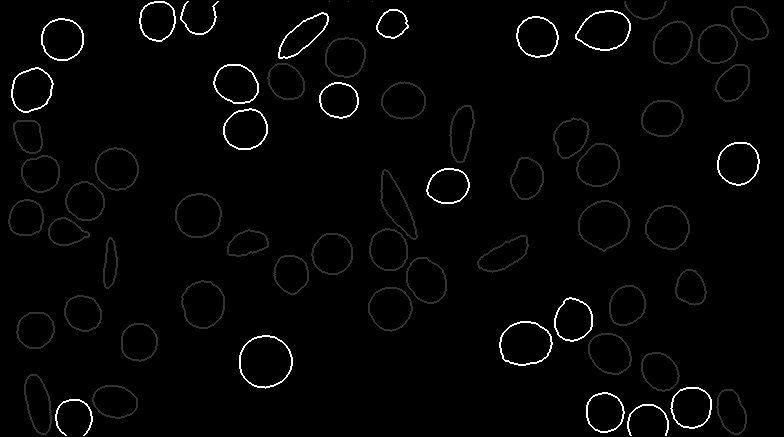
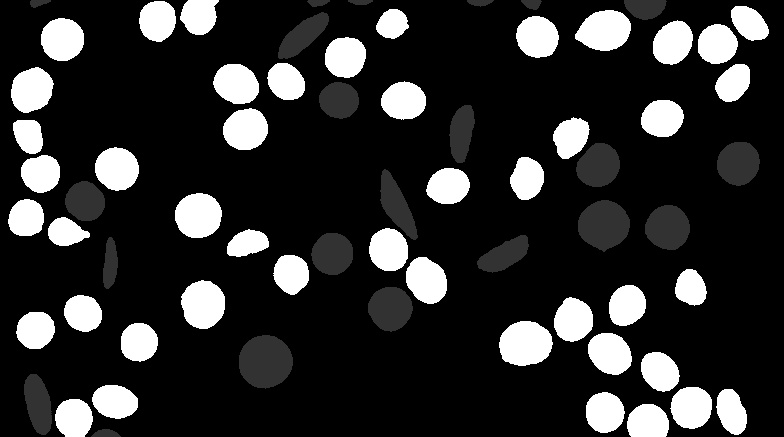
Improve highlightging

diff --git a/ex4/ex4.cpp b/ex4/ex4.cpp
@@ -498,7 +498,7 @@ bool isAHit(unsigned char* image, int structElement[3][3], int index, int width)
     for (int i = 0; i < 3; i++) {
         for (int j = 0; j < 3; j++) {
         
-            if (image[index] == 255 && structElement[i][j] == 1)
+            if (image[index] == 0 && structElement[i][j] == 1)
                 return false;
             index++;
         }
@@ -518,7 +518,7 @@ unsigned char * erode(unsigned char* image, int width, int height, int noTimes) 
         if (isRightMostColumn(i, width, height) || isLeftMostColumn(i, width, height)) 
             continue;
 
-        newImage[i] = isAHit(image, structElement, i, width) ? 0 : 255;  
+        newImage[i] = isAHit(image, structElement, i, width) ? image[i] : 0;  
     }
 
     if (noTimes == 1)
@@ -582,19 +582,17 @@ unsigned char* highlightRoundOnes(unsigned char *image, unsigned char *labels, u
 
     unsigned char *newImage = (unsigned char *)malloc(sizeof(char) * size);
 
-/*
+    double classification[256];
     for (int i = 0; i < 256; i++) 
-        printf("%d   %d\n", labHist[i], subHist[i]);*/
+        classification[i] = labHist[i] == 0 ? 0.0 : pow(subHist[i], 2) / labHist[i];
 
     for (int i = 0; i < size; i++) {
         if (image[i] == 0)
-            continue; 
-
-        double p2A = pow(subHist[labels[i]], 2) / labHist[labels[i]];
+            continue;        
         
-        double roundness = abs(p2A - fourPi);
-printf("roundness: %f %f\n", roundness, p2A);
-        newImage[i] = roundness < 24 ? 255 : 50; 
+        double roundness = abs(classification[image[i]]- fourPi);
+
+        newImage[i] = roundness < 1.9 ? 255 : 50; 
     }
 
     return newImage;
@@ -624,24 +622,19 @@ int main(int argc, char *argv[]) {
 
   labels = CCA(thresholded, width, height);
 
-  eroded = erode(thresholded, width, height, 2);
+  eroded = erode(labels, width, height, 1);
 
-  subtracted = subtract(eroded, thresholded, width * height);
-  inverted = invert(subtracted, width * height);  
+  subtracted = subtract(labels, eroded, width * height);
+  inverted = invert(subtracted, width * height);   
 
+  highlighted = highlightRoundOnes(labels, eroded, subtracted, width * height);
   
-  subtractedLabels = CCA(inverted, width, height);
-
-  highlighted = highlightRoundOnes(subtractedLabels, labels, subtractedLabels, width * height);
-
-
   write_JPEG_file(argv[2], width, height, channels, thresholded, 95);
   write_JPEG_file(argv[3], width, height, channels, labels, 95);
   write_JPEG_file(argv[4], width, height, channels, eroded, 95);
   write_JPEG_file(argv[5], width, height, channels, subtracted, 95);
-  write_JPEG_file(argv[6], width, height, channels, inverted, 95);
-  write_JPEG_file(argv[7], width, height, channels, subtractedLabels, 95);
-  write_JPEG_file(argv[8], width, height, channels, highlighted, 95);
+  write_JPEG_file(argv[6], width, height, channels, inverted, 95); 
+  write_JPEG_file(argv[7], width, height, channels, highlighted, 95);
   
   return 0;
 
